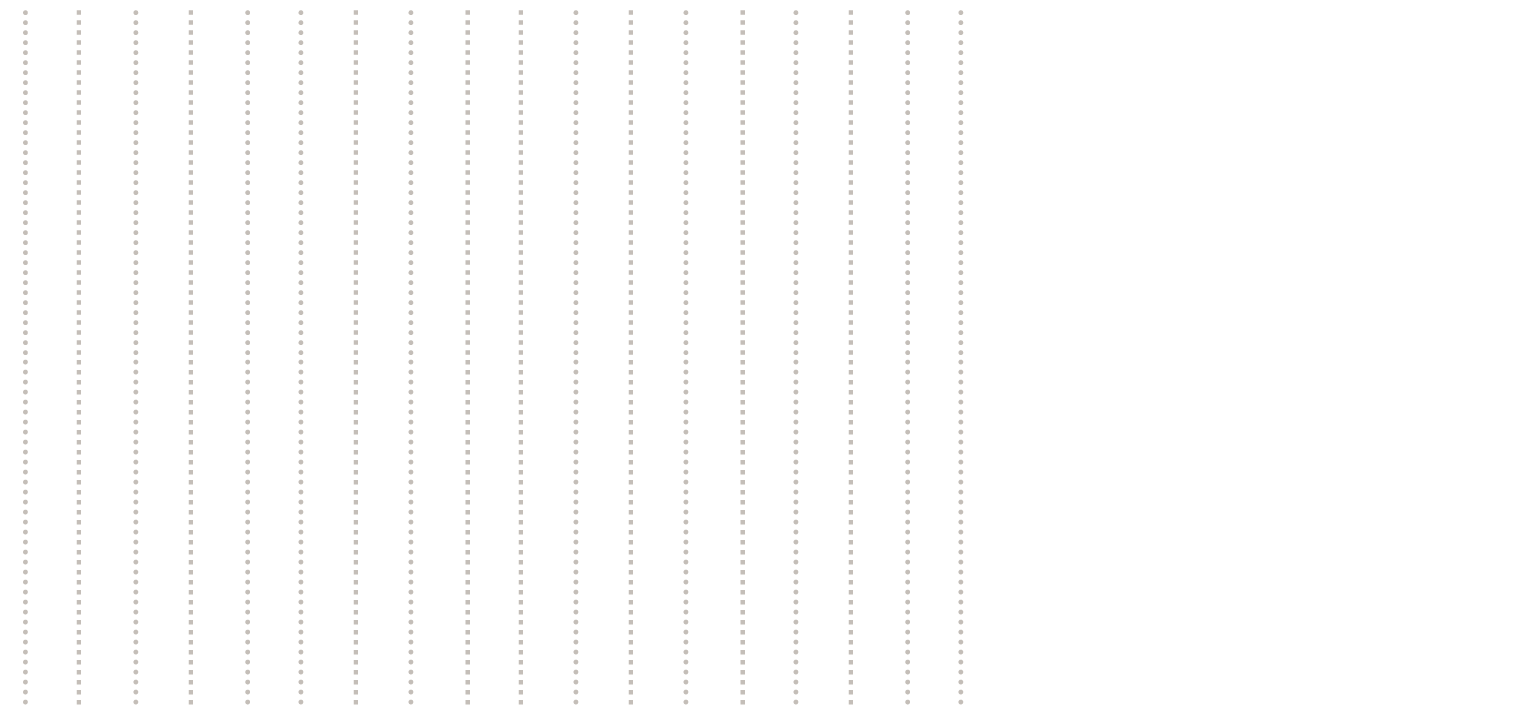
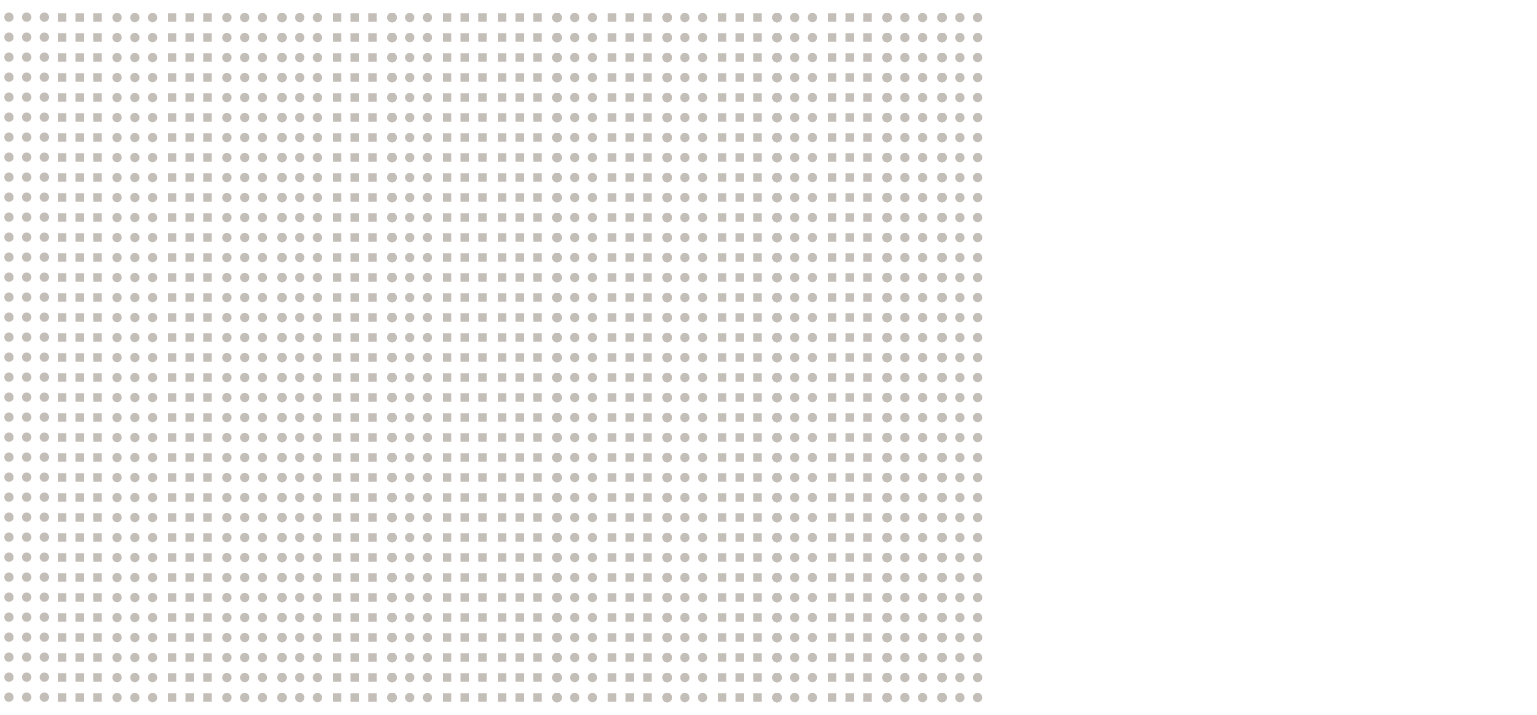
background

Changed region(s): [[0.0, 0.0, 0.6558, 0.9846]]

diff --git a/index.html b/index.html
@@ -133,6 +133,7 @@
                 </div>
             </div>
         </div>
+        <img class="background" src="img/background/background_1.png">
     </div>
     <!----------------------------------------------------------------------------------Escrita em símbolos + Alfabetos-->
     <div type="escrit" class="horizontal">
@@ -213,6 +214,7 @@
                 </div>
             </div>
         </div>
+        <img class="background" src="img/background/background_2.png">
     </div>
     <!-------------------------------------------------------------------------Contribuição Asiática-->
     <div type="asian" class="vertical">
@@ -292,6 +294,7 @@
                 </div>
             </div>
         </div>
+        <img class="background" src="img/background/background_3.png">
     </div>
     <!--Idade Média (Manuscritos iluminados, Idade das trevas)-->
     <div type="ilum" class="horizontal">
@@ -359,6 +362,7 @@
                 </div>
             </div>
         </div>
+        <img class="background" src="img/background/background_4.png">
     </div>
     <!--Impressão na Europa-->
     <div type="printing" class="vertical">
@@ -455,6 +459,7 @@
                 </div>
             </div>
         </div>
+        <img class="background" src="img/background/background_5.png">
     </div>
     <!--Livro Alemão-->
     <div type="german_book" class="vertical">
@@ -539,6 +544,7 @@
                 </div>
             </div>
         </div>
+        <img class="background" src="img/background/background_6.png">
     </div>
     <!--Renascimento-->
     <div type="renas" class="horizontal">
@@ -616,9 +622,9 @@
                         <p class="fonte">florilege.edel.univ-poitiers.fr/items/show/13810</p>
                     </div>
                 </div>
-
             </div>
         </div>
+        <img class="background" src="img/background/background_7.png">
     </div>
     <!--Genialidade Tipográfica-->
     <div type="type_gen" class="vertical">
@@ -753,6 +759,7 @@
                 </div>
             </div>
         </div>
+        <img class="background" src="img/background/background_8.png">
     </div>
     <!--Inovação tipográfica e mecanização da tipografia-->
     <div type="type_mec" class="horizontal">
@@ -848,10 +855,9 @@
                             Cosac Naify, 2009</p>
                     </div>
                 </div>
-
-
             </div>
         </div>
+        <img class="background" src="img/background/background_9.png">
     </div>
     <!--Fotografia-->
     <div type="photo" class="horizontal">
@@ -943,9 +949,9 @@
                         <p class="fonte">cienciadoamanha.com/2020/05/30/eadweard-muybridge/</p>
                     </div>
                 </div>
-
             </div>
         </div>
+        <img class="background" src="img/background/background_10.png">
     </div>
     <!--Arts and crafts-->
     <div type="crafts" class="vertical">
@@ -1003,9 +1009,9 @@
                         <p class="fonte">vam.ac.uk/articles/arts-and-crafts-an-introduction</p>
                     </div>
                 </div>
-
             </div>
         </div>
+        <img class="background" src="img/background/background_11.png">
     </div>
     <!--Art nouveau-->
     <div type="noveau" class="horizontal">
@@ -1126,6 +1132,7 @@
                 </div>
             </div>
         </div>
+        <img class="background" src="img/background/background_12.png">
     </div>
     <!--glasgow-->
     <div type="glasgow" class="vertical">
@@ -1211,6 +1218,7 @@
                 </div>
             </div>
         </div>
+        <img class="background" src="img/background/background_13.png">
     </div>
     <!--Cubismo-->
     <div type="cubism" class="horizontal">
@@ -1302,6 +1310,7 @@
                 </div>
             </div>
         </div>
+        <img class="background" src="img/background/background_14.png">
     </div>
     <!--Futurismo-->
     <div type="futurism" class="vertical">
@@ -1395,10 +1404,9 @@
                             fineartamerica.com/featured/load-of-spearmen-digital-remastered-edition-umberto-boccioni.html</p>
                     </div>
                 </div>
-
-
             </div>
         </div>
+        <img class="background" src="img/background/background_15.png">
     </div>
     <!--Dadaísmo-->
     <div type="dadaism" class="horizontal">
@@ -1503,6 +1511,7 @@
                 </div>
             </div>
         </div>
+        <img class="background" src="img/background/background_16.png">
     </div>
     <!--Fotografia e o movimento moderno-->
     <div type="photo_modern" class="vertical">
@@ -1610,6 +1619,7 @@
                 </div>
             </div>
         </div>
+        <img class="background" src="img/background/background_17.png">
     </div>
     <!--Cartaz como meio de comunicação-->
     <div type="posters" class="vertical">
@@ -1695,6 +1705,7 @@
                 </div>
             </div>
         </div>
+        <img class="background" src="img/background/background_18.png">
     </div>
     <!--Construtivismo-->
     <div type="const" class="horizontal">
@@ -1784,9 +1795,9 @@
                         <p class="fonte">moma.org/collection/works/6487</p>
                     </div>
                 </div>
-
             </div>
         </div>
+        <img class="background" src="img/background/background_19.png">
     </div>
     <!--De Stijl-->
     <div type="stijl" class="horizontal">
@@ -1902,6 +1913,7 @@
                 </div>
             </div>
         </div>
+        <img class="background" src="img/background/background_20.png">
     </div>
     <!--Bauhaus-->
     <div type="bau" class="vertical">
@@ -1995,6 +2007,7 @@
                 </div>
             </div>
         </div>
+        <img class="background" src="img/background/background_21.png">
     </div>
     <!--Estilo tipográfico internacional-->
     <div type="suico" class="horizontal">
@@ -2084,9 +2097,9 @@
                         <p class="fonte">commons.wikimedia.org/wiki/File:Berlin-layout-stankowski.jpg</p>
                     </div>
                 </div>
-
             </div>
         </div>
+        <img class="background" src="img/background/background_22.png">
     </div>
     <!--Escola de NY -->
     <div type="ny" class="vertical">
@@ -2156,6 +2169,7 @@
                 </div>
             </div>
         </div>
+        <img class="background" src="img/background/background_23.png">
     </div>
     <!--Identidade corporativa e sistemas visuais-->
     <div type="ident" class="horizontal">
@@ -2235,6 +2249,7 @@
                 </div>
             </div>
         </div>
+        <img class="background" src="img/background/background_24.png">
     </div>
     <!--Psicadelismo-->
     <div type="psic" class="vertical">
@@ -2328,6 +2343,7 @@
                 </div>
             </div>
         </div>
+        <img class="background" src="img/background/background_25.png">
     </div>
     <!--Punk-->
     <div type="punk" class="vertical">
@@ -2408,6 +2424,7 @@
                 </div>
             </div>
         </div>
+        <img class="background" src="img/background/background_26.png">
     </div>
     <!--New Wave-->
     <div type="wave" class="horizontal">
@@ -2481,6 +2498,7 @@
                 </div>
             </div>
         </div>
+        <img class="background" src="img/background/background_27.png">
     </div>
     <!--Revolução digital-->
     <div type="digital" class="vertical">
@@ -2576,6 +2594,7 @@
 
             </div>
         </div>
+        <img class="background" src="img/background/background_28.png">
     </div>
 </div>
 </body>
